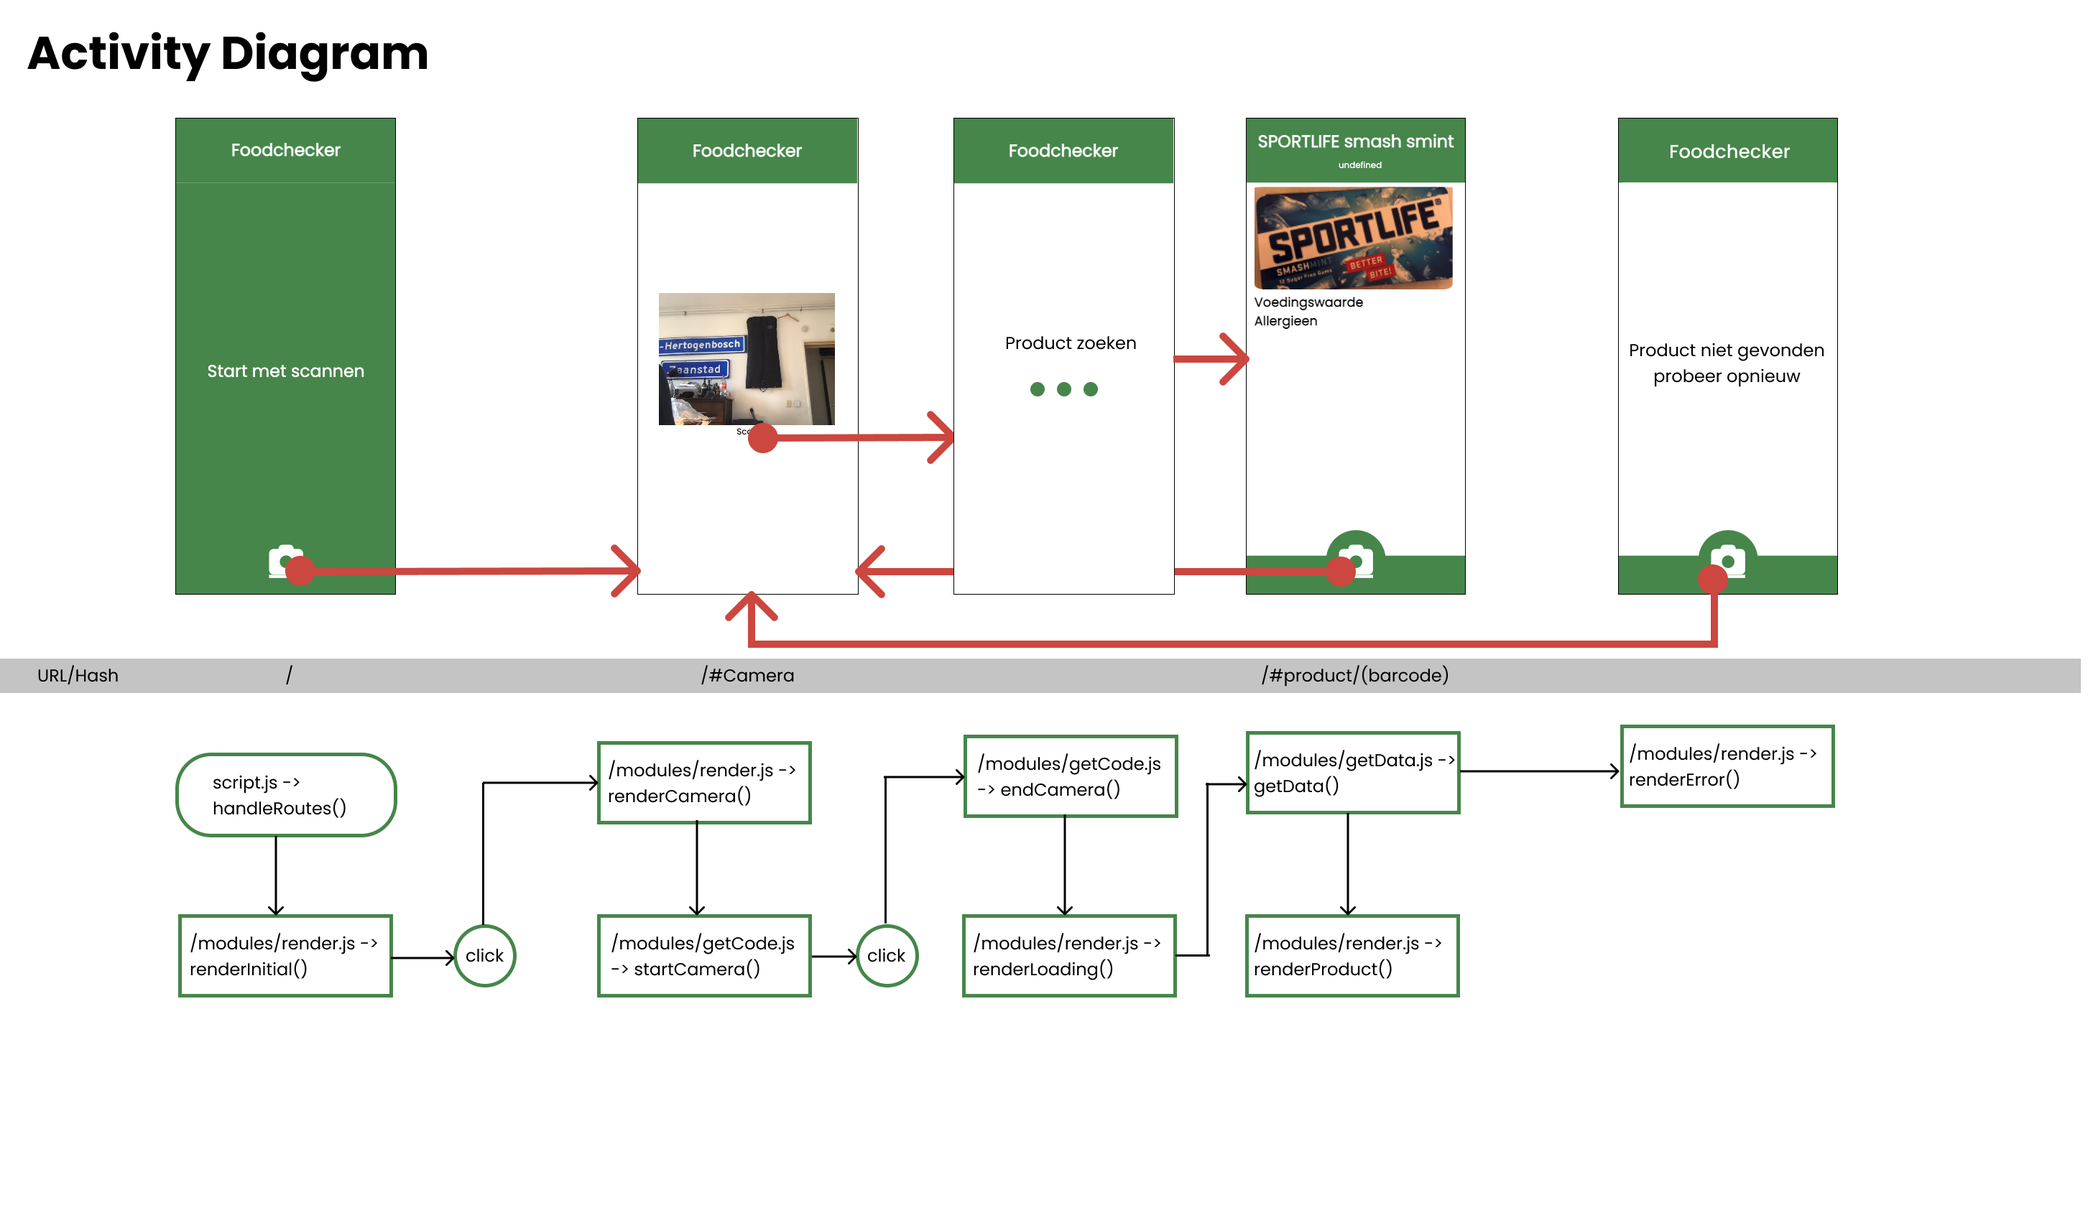
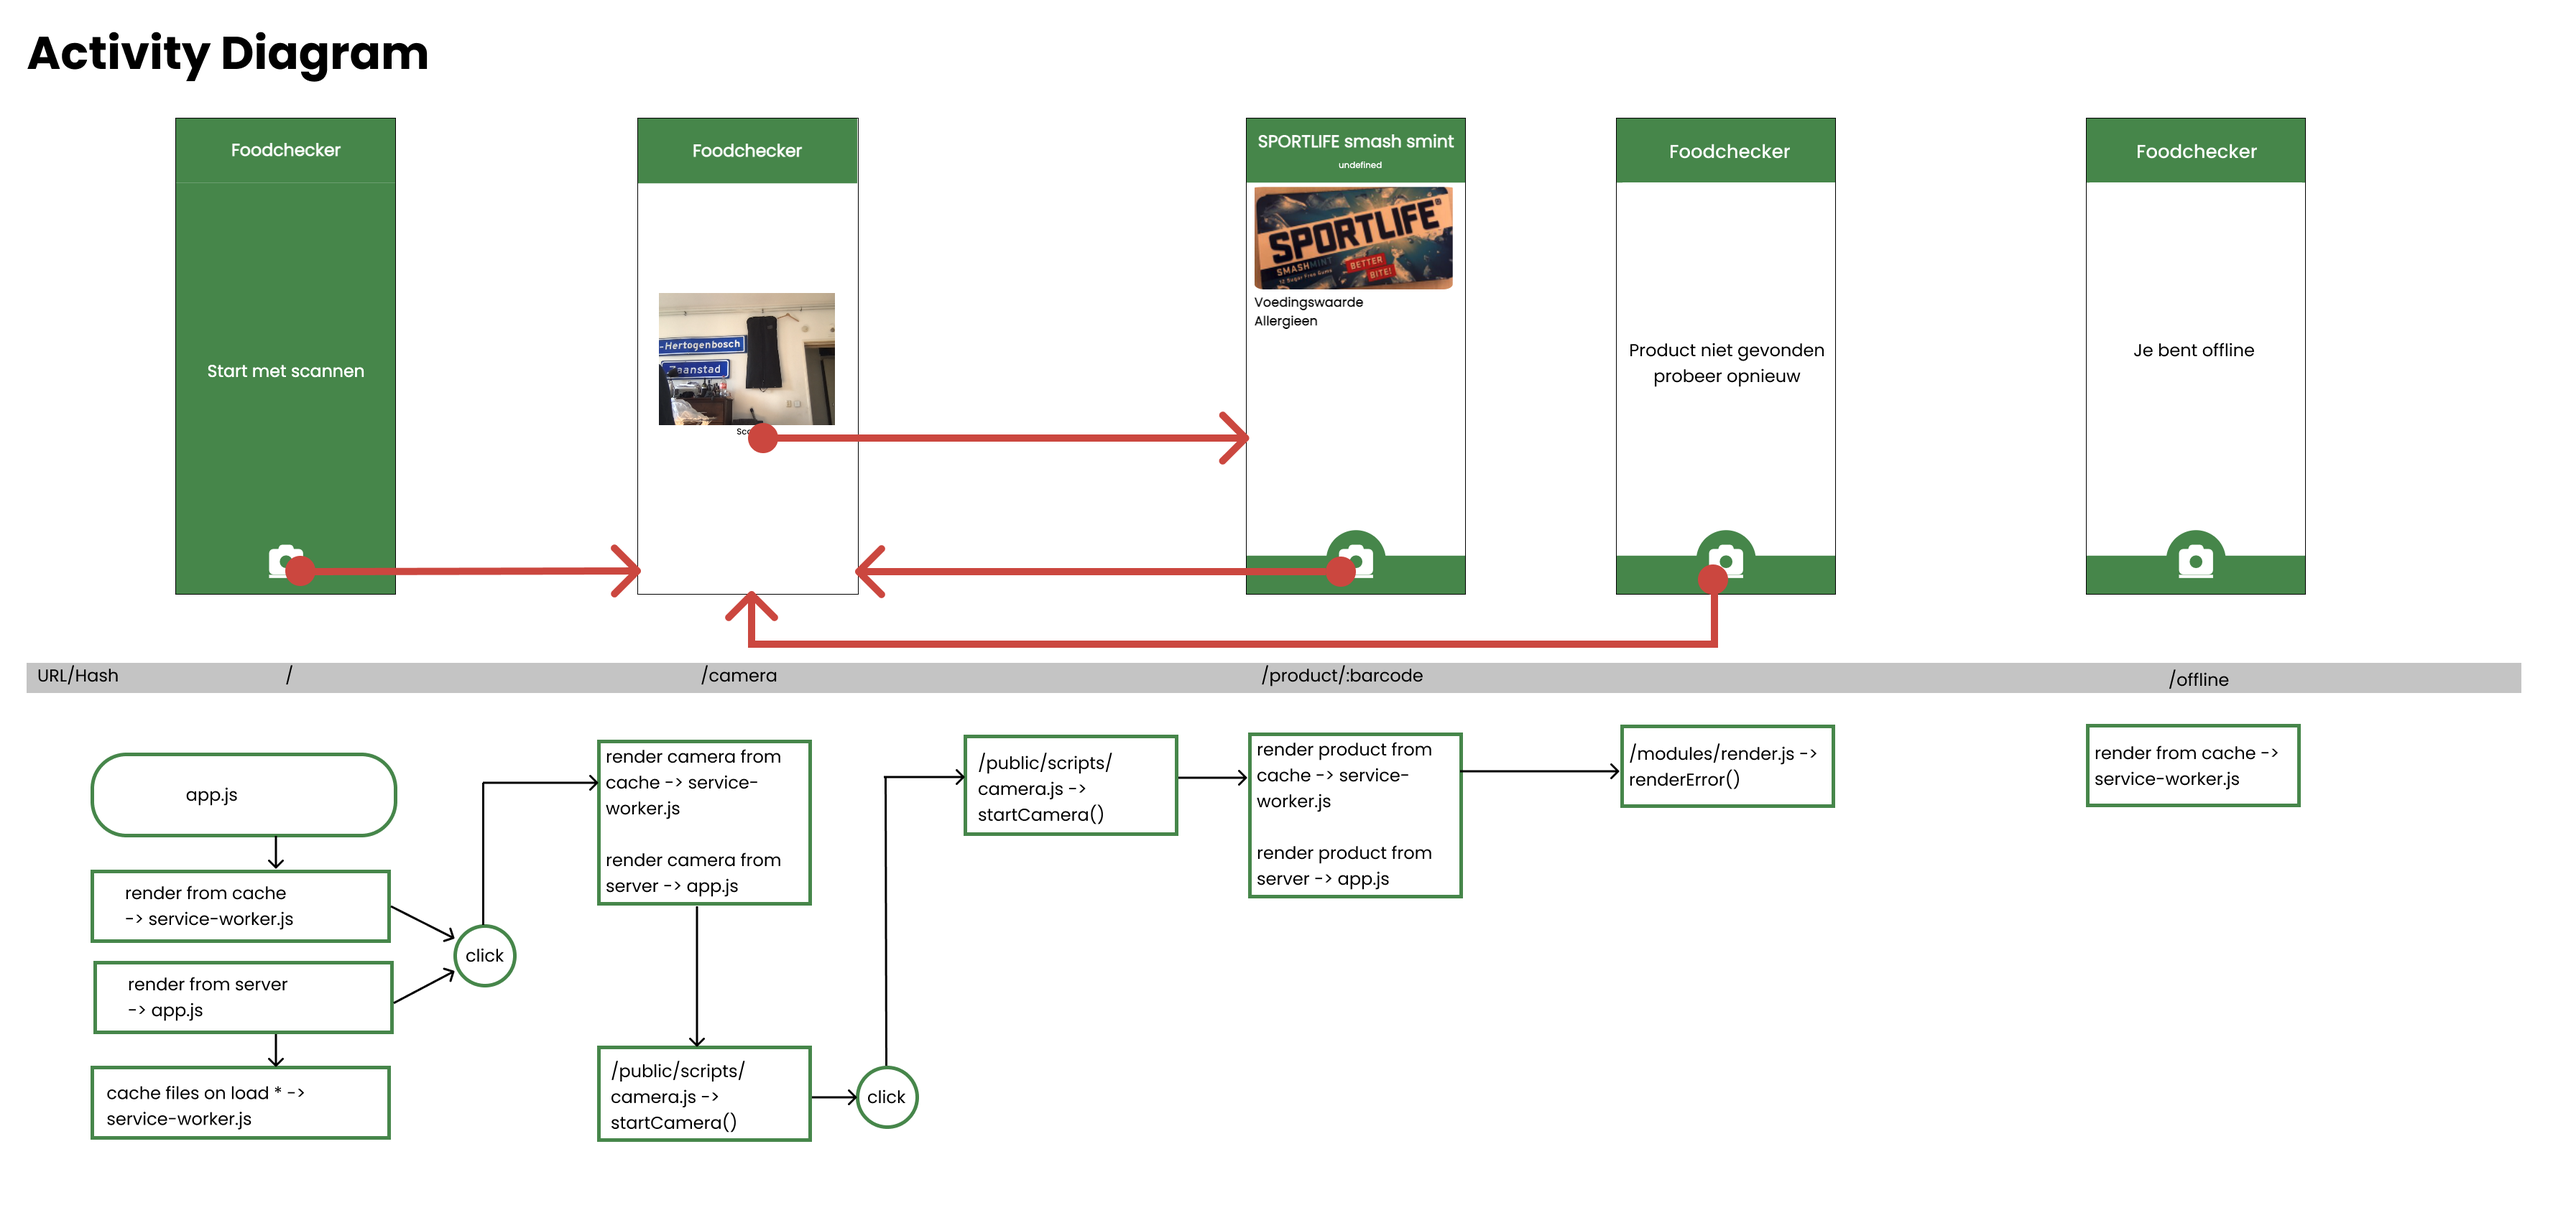
update readme

diff --git a/public/service-worker.js b/public/service-worker.js
@@ -1,4 +1,4 @@
-const CORE_CACHE = ['/offline', 'style-v2.min.css', '/', '/camera', 'scripts/camera-v2.min.js', 'https://fonts.googleapis.com', 'https://fonts.gstatic.com', 'https://fonts.googleapis.com/css2?family=Poppins:wght@100;200;300;400;500;600;700;800;900&display=swap', 'https://kit.fontawesome.com/154837199a.js']
+const CORE_CACHE = ['/offline', 'style-v2.min.css', '/', '/camera', 'scripts/camera-v2.min.js']
 const core_name = 'core-cache-v5'
 const html_cache = 'html-cache-v1'
 

diff --git a/README.md b/README.md
@@ -8,11 +8,14 @@ The application let's you scan the barcode of a product. It uses the barcode sca
 
 ## Screenshots
 
-![Homescreen](./docs/assets/homescreen.png)![Live video feed](./docs/assets/camera.png)![Product details](./docs/assets/product.png)
+<img src="./docs/assets/homescreen.png" alt="Homescreen" width=33% height=33%>
+<img src="./docs/assets/camera.png" alt="Camera" width=33% height=33%>
+<img src="./docs/assets/product.png" alt="Product" width=33% height=33%>
 
 ## Activity Diagram
 
-![Activity Diagram](./docs/assets/activitydiagram.png)
+<img src="./docs/assets/activitydiagram.png" alt="Activity diagram" width=50% height=50%>
+
 
 ## Running the app
 
